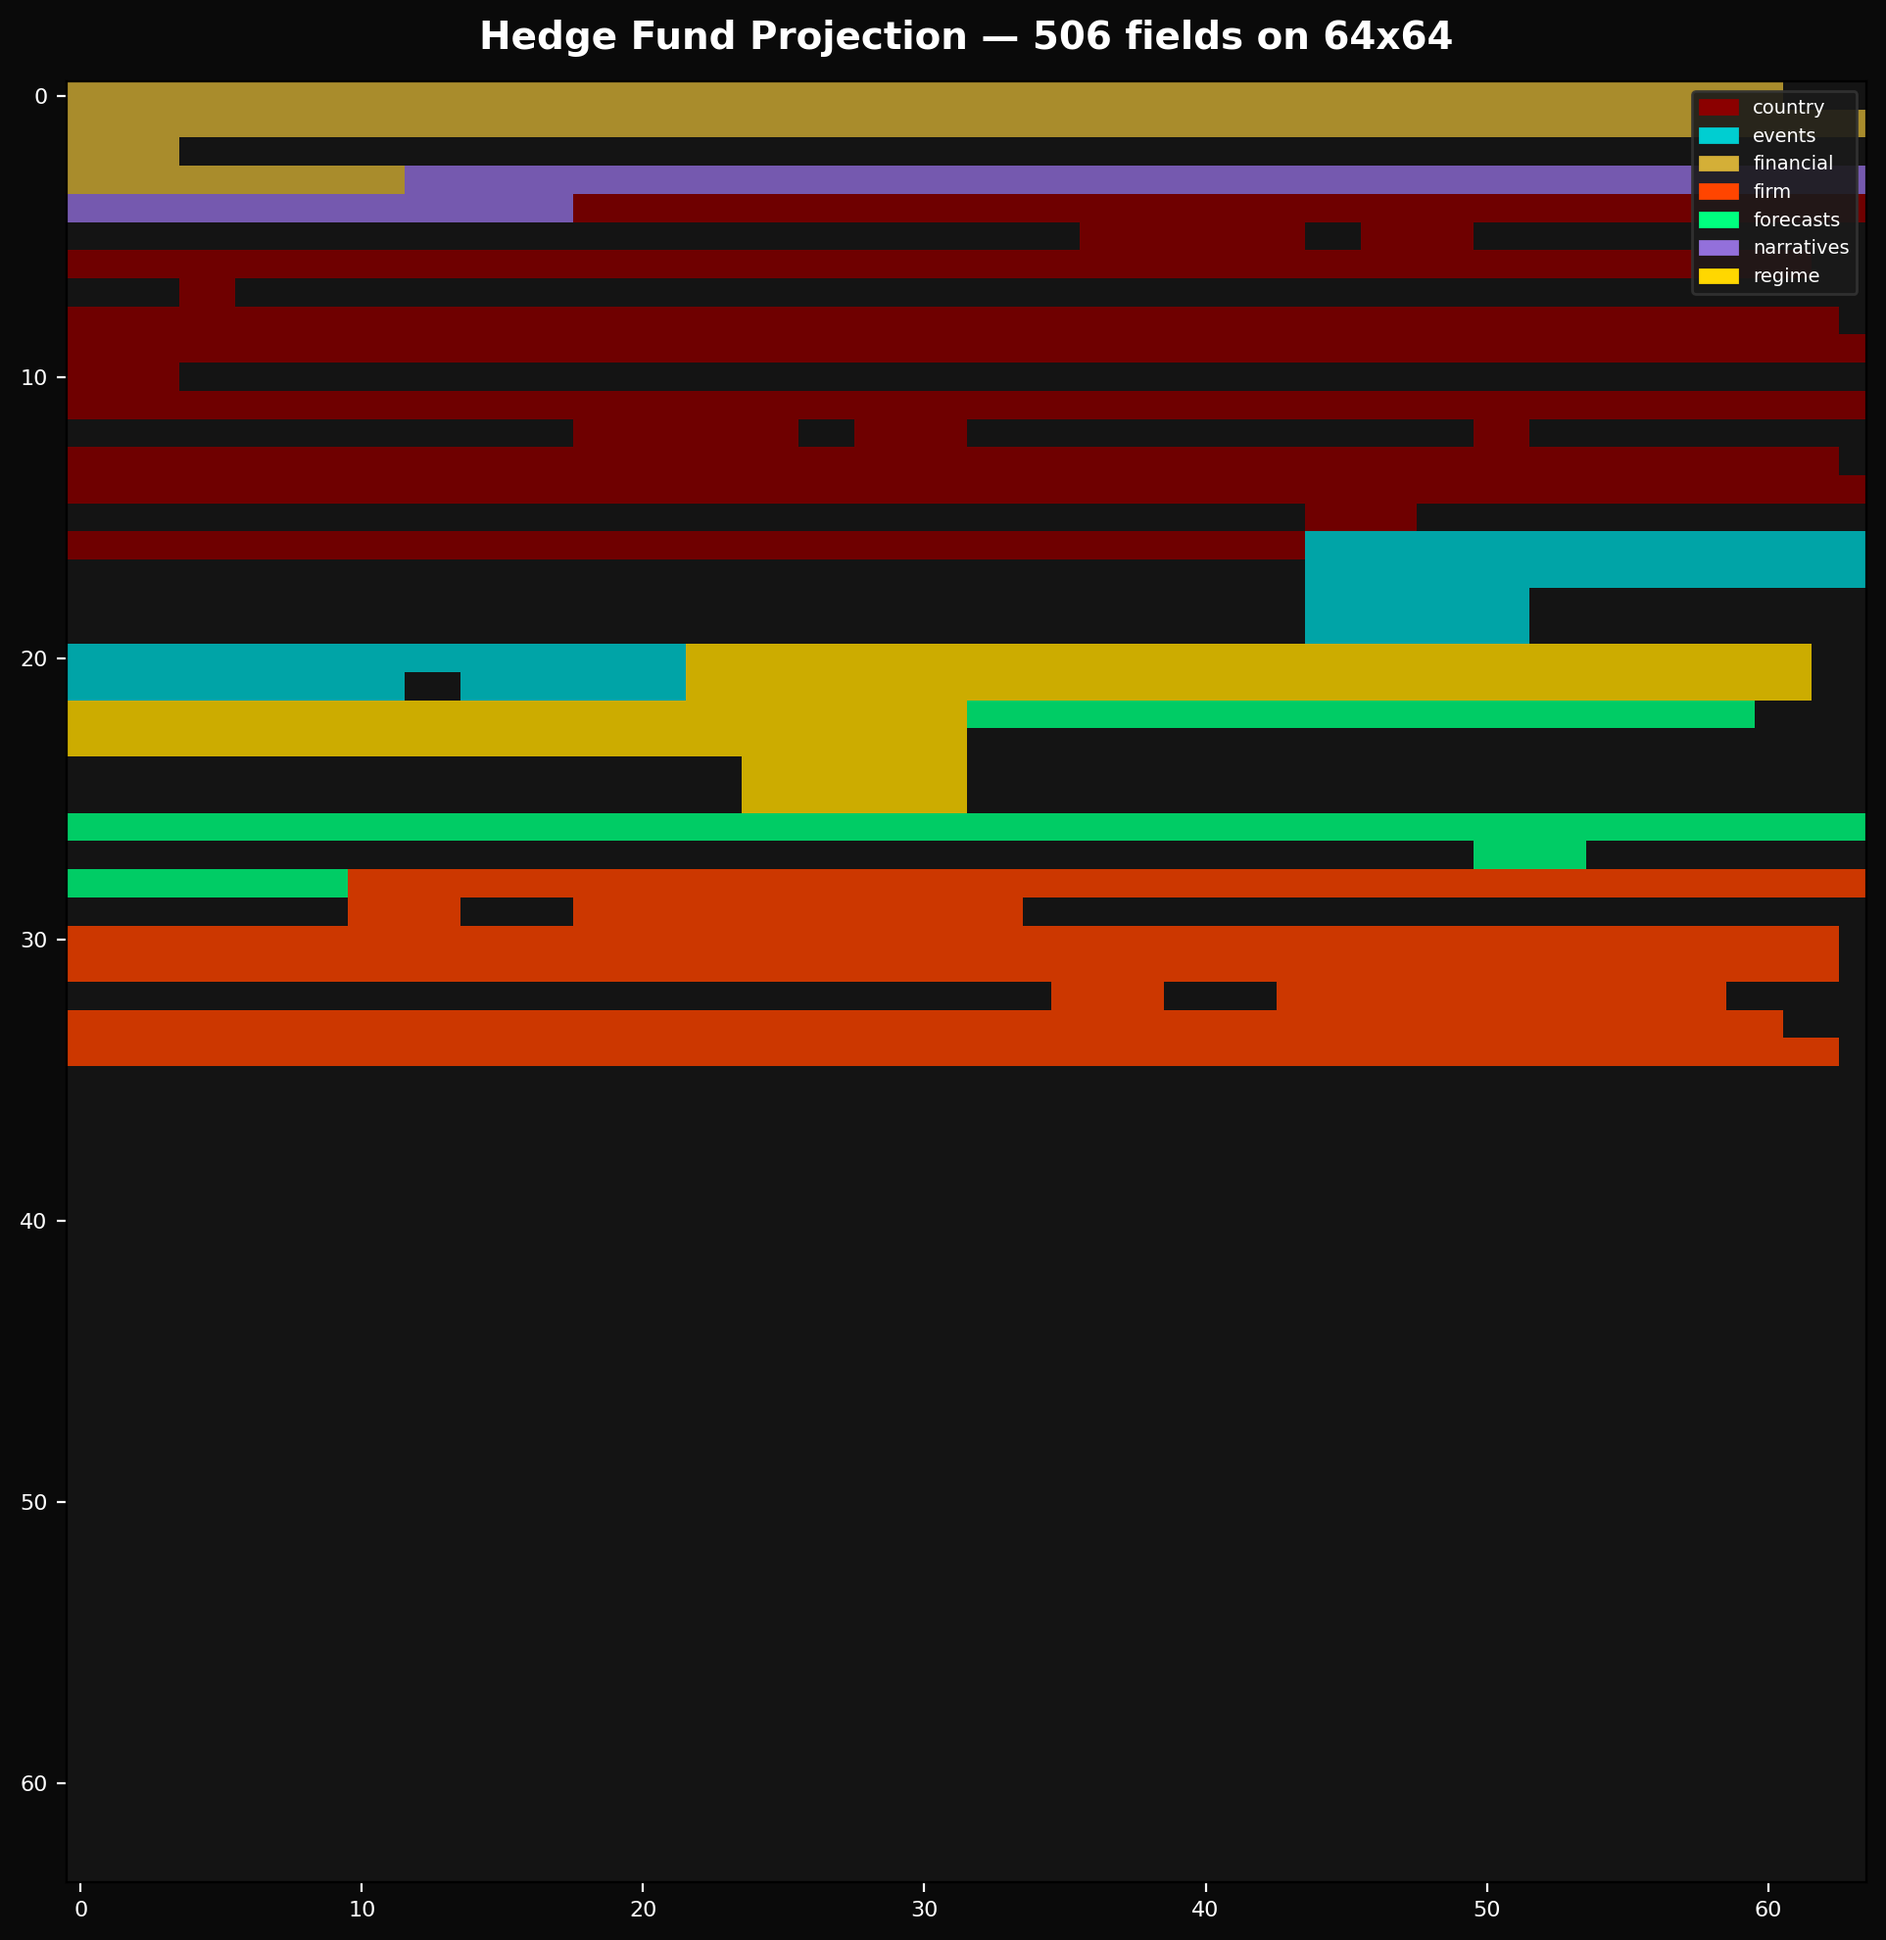
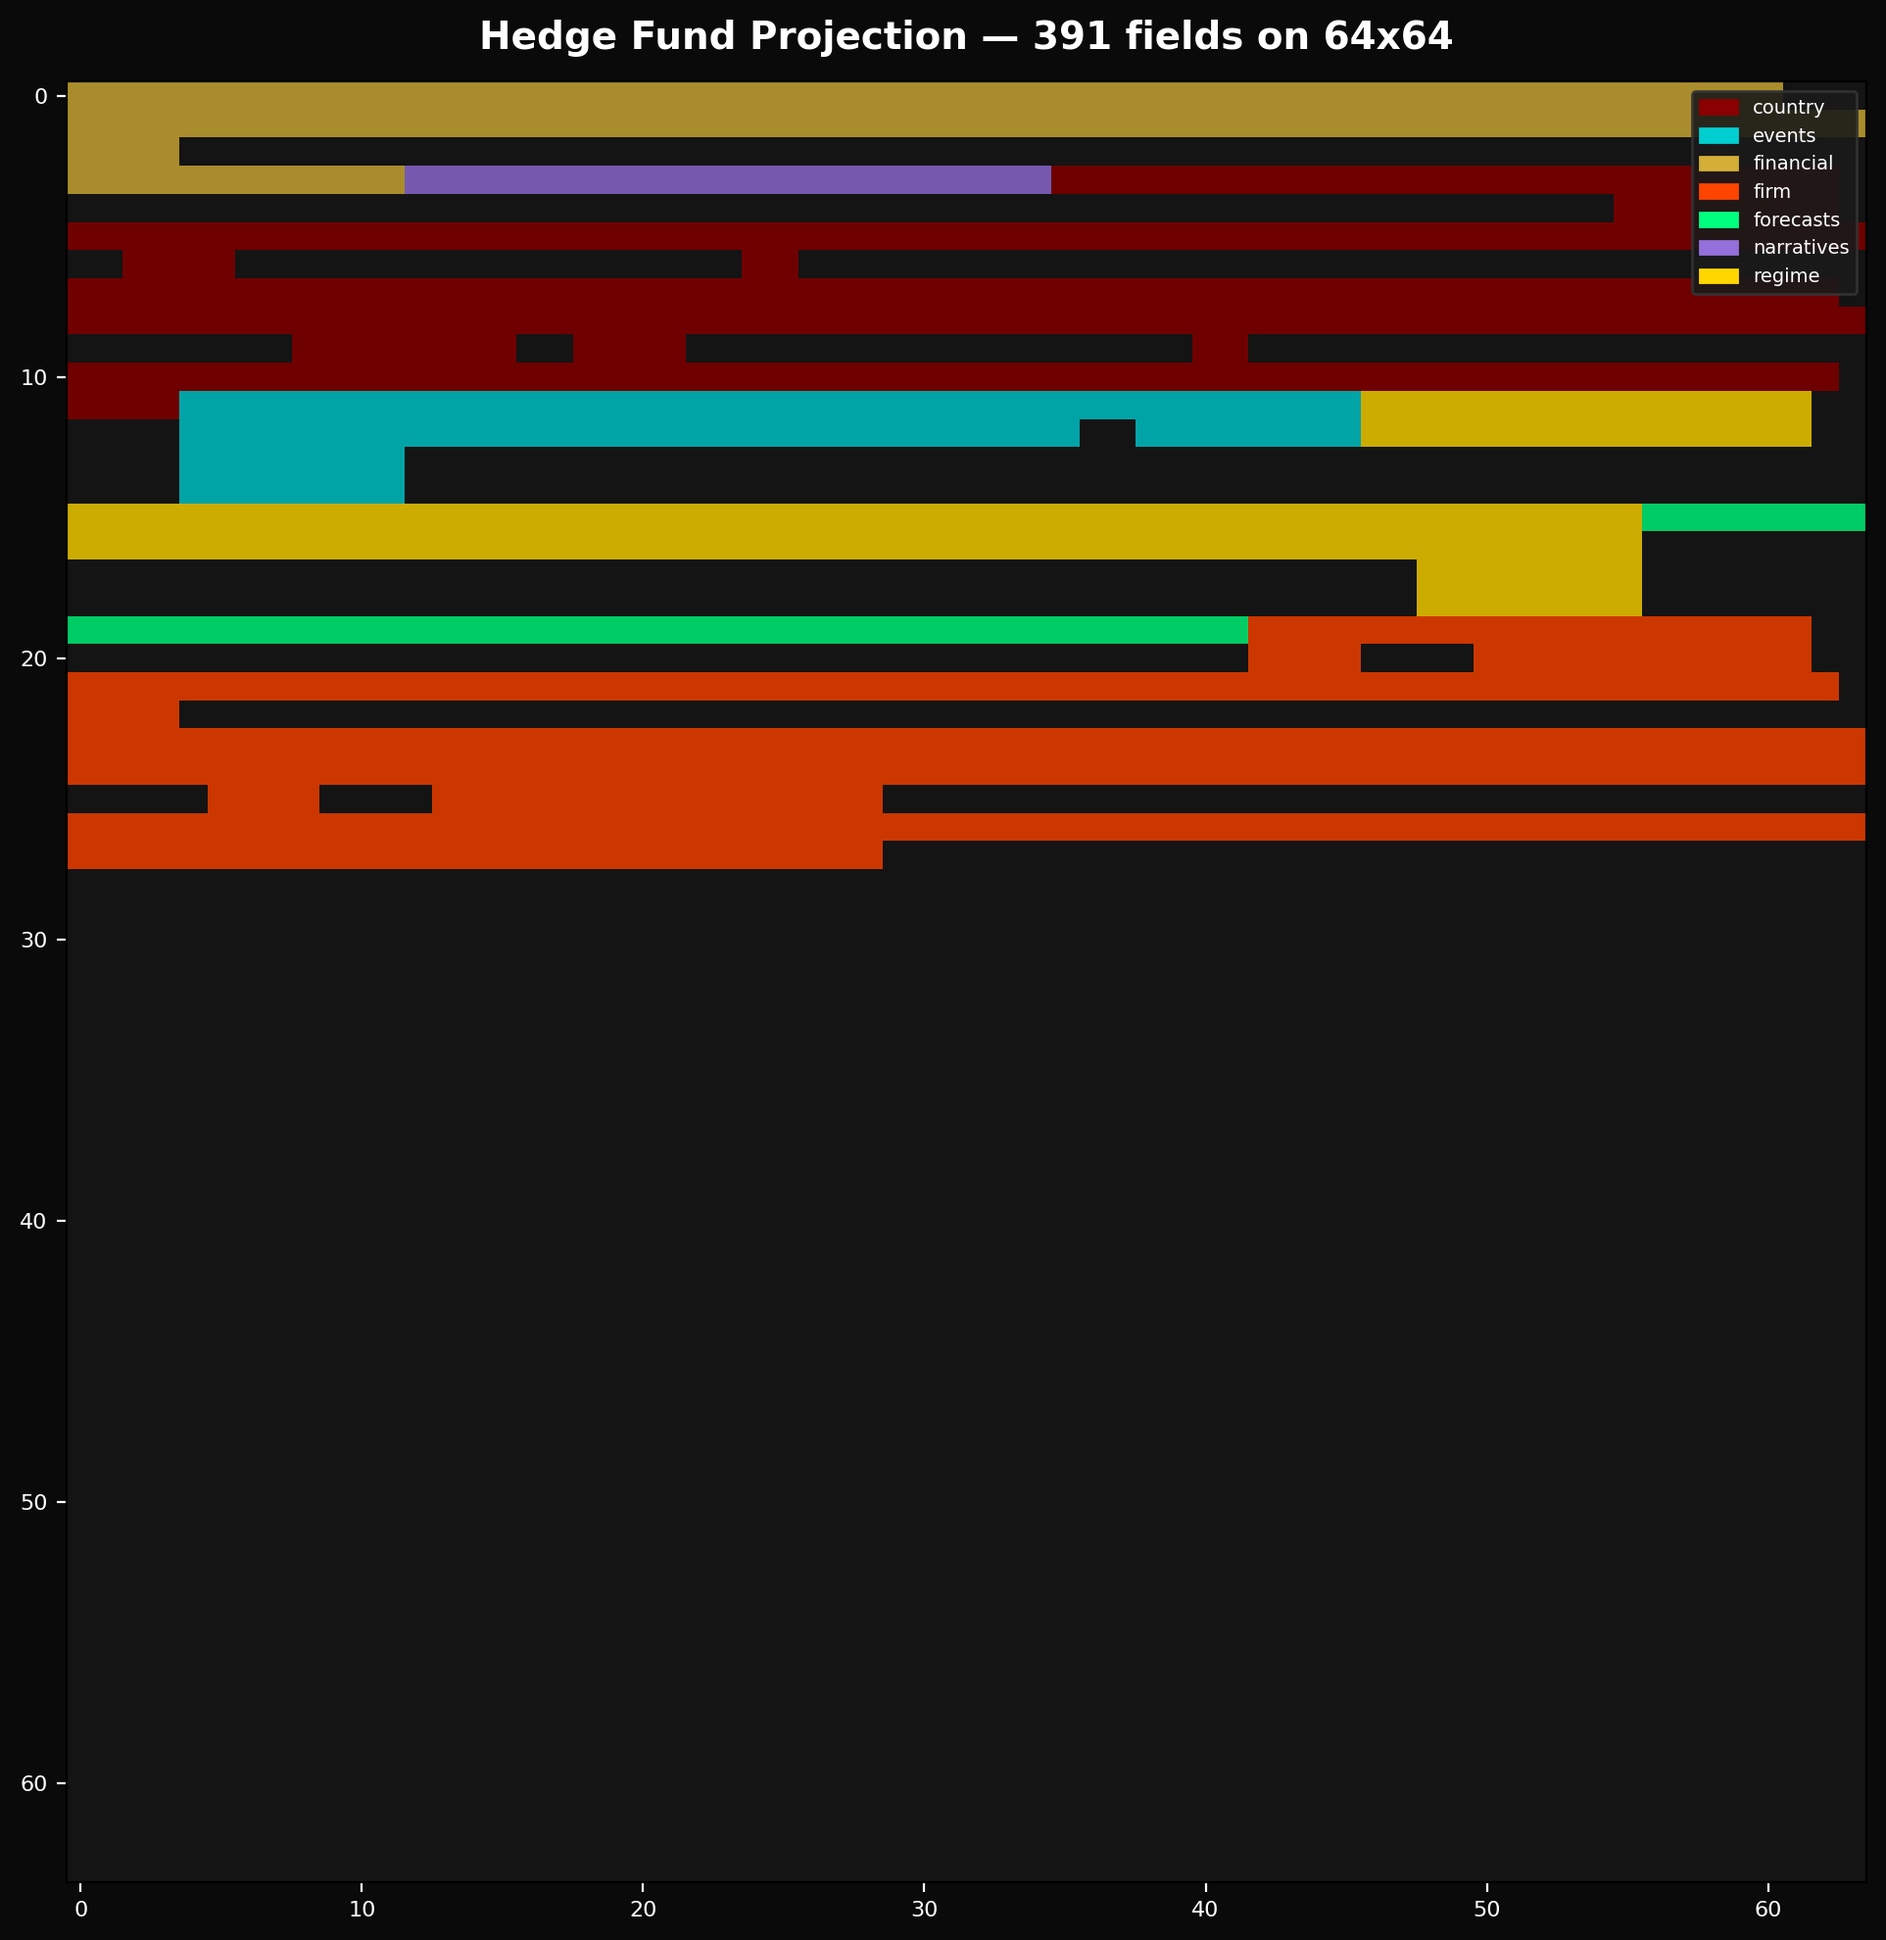
Regenerate all assets: 12 PNGs + rotating globe GIF
New assets: usecase_ceo.png, usecase_government.png, usecase_agent.png,
geopolitical_globe.gif (72-frame rotation). Updated existing assets with
cross-domain topology edges, minimal regime bars, social graph with
structural edges, and PCA-colored country territories.

diff --git a/scripts/generate_assets.py b/scripts/generate_assets.py
@@ -1,12 +1,13 @@
 """Generate all README images.
 
 Produces high-quality visualizations for:
-1. Canvas heatmaps (full world + macro projection)
+1. Canvas heatmaps (full world + macro projection + hedge fund)
 2. Topology graphs (macro model + hedge fund model)
-3. Financial charts (demo data)
-4. Geopolitical map
-5. Regime dashboard
-6. Social graph (CEO perspective)
+3. Causal interaction graphs (CEO + government + agent use cases)
+4. Financial charts (demo data)
+5. Geopolitical map
+6. Regime dashboard
+7. Social graph (CEO perspective)
 
 Usage:
     python scripts/generate_assets.py
@@ -30,6 +31,9 @@ from general_unified_world_model.rendering import (
     RegimeDashboardRenderer,
     SocialGraphRenderer,
     RenderContext,
+    render_ceo_use_case,
+    render_government_use_case,
+    render_agent_use_case,
 )
 from canvas_engineering import compile_schema, ConnectivityPolicy
 
@@ -120,26 +124,37 @@ def render_financial_charts():
 
 
 def render_geopolitical_map():
-    """Geopolitical risk map."""
+    """Geopolitical state map with vector-to-RGB projection (static + GIF)."""
     print("Rendering: geopolitical_map...")
     proj = WorldProjection(include=["*"])
     bound = project(proj, T=1, H=128, W=128, d_model=64)
     ctx = RenderContext(
         bound_schema=bound,
-        title="Geopolitical Risk — Global State Projection",
+        title="Geopolitical State — Vector Projection to RGB",
     )
     r = GeopoliticalMapRenderer()
     r.save(ctx, ASSETS / "geopolitical_map.png", dpi=DPI)
 
+    print("Rendering: geopolitical_globe.gif (rotating)...")
+    r.render_rotating_gif(
+        ctx,
+        ASSETS / "geopolitical_globe.gif",
+        n_frames=72,
+        center_lat=20,
+        duration_ms=80,
+        dpi=100,
+        figsize=(6, 6),
+    )
+
 
 def render_regime_dashboard():
-    """Regime state dashboard."""
+    """Regime state dashboard — minimal bars."""
     print("Rendering: regime_dashboard...")
     proj = WorldProjection(include=["regime", "forecasts"])
     bound = project(proj, T=1, H=24, W=24, d_model=64)
     ctx = RenderContext(
         bound_schema=bound,
-        title="World Regime State — Latent Dashboard",
+        title="regime state",
     )
     r = RegimeDashboardRenderer()
     r.save(ctx, ASSETS / "regime_dashboard.png", dpi=DPI)
@@ -181,12 +196,45 @@ def render_canvas_hedge_fund():
     r.save(ctx, ASSETS / "canvas_hedge_fund.png", dpi=DPI)
 
 
+# ── Use-case causal interaction graphs ───────────────────────────────
+
+
+def render_usecase_ceo():
+    """CEO use case — causal interaction graph."""
+    print("Rendering: usecase_ceo...")
+    fig = render_ceo_use_case()
+    fig.savefig(ASSETS / "usecase_ceo.png", dpi=DPI, bbox_inches="tight")
+    import matplotlib.pyplot as plt
+    plt.close(fig)
+
+
+def render_usecase_government():
+    """Government use case — causal interaction graph."""
+    print("Rendering: usecase_government...")
+    fig = render_government_use_case()
+    fig.savefig(ASSETS / "usecase_government.png", dpi=DPI, bbox_inches="tight")
+    import matplotlib.pyplot as plt
+    plt.close(fig)
+
+
+def render_usecase_agent():
+    """Computer use agent use case — causal interaction graph."""
+    print("Rendering: usecase_agent...")
+    fig = render_agent_use_case()
+    fig.savefig(ASSETS / "usecase_agent.png", dpi=DPI, bbox_inches="tight")
+    import matplotlib.pyplot as plt
+    plt.close(fig)
+
+
 if __name__ == "__main__":
     render_canvas_full()
     render_canvas_macro()
     render_canvas_hedge_fund()
     render_topology_macro()
     render_topology_hedge_fund()
+    render_usecase_ceo()
+    render_usecase_government()
+    render_usecase_agent()
     render_financial_charts()
     render_geopolitical_map()
     render_regime_dashboard()
